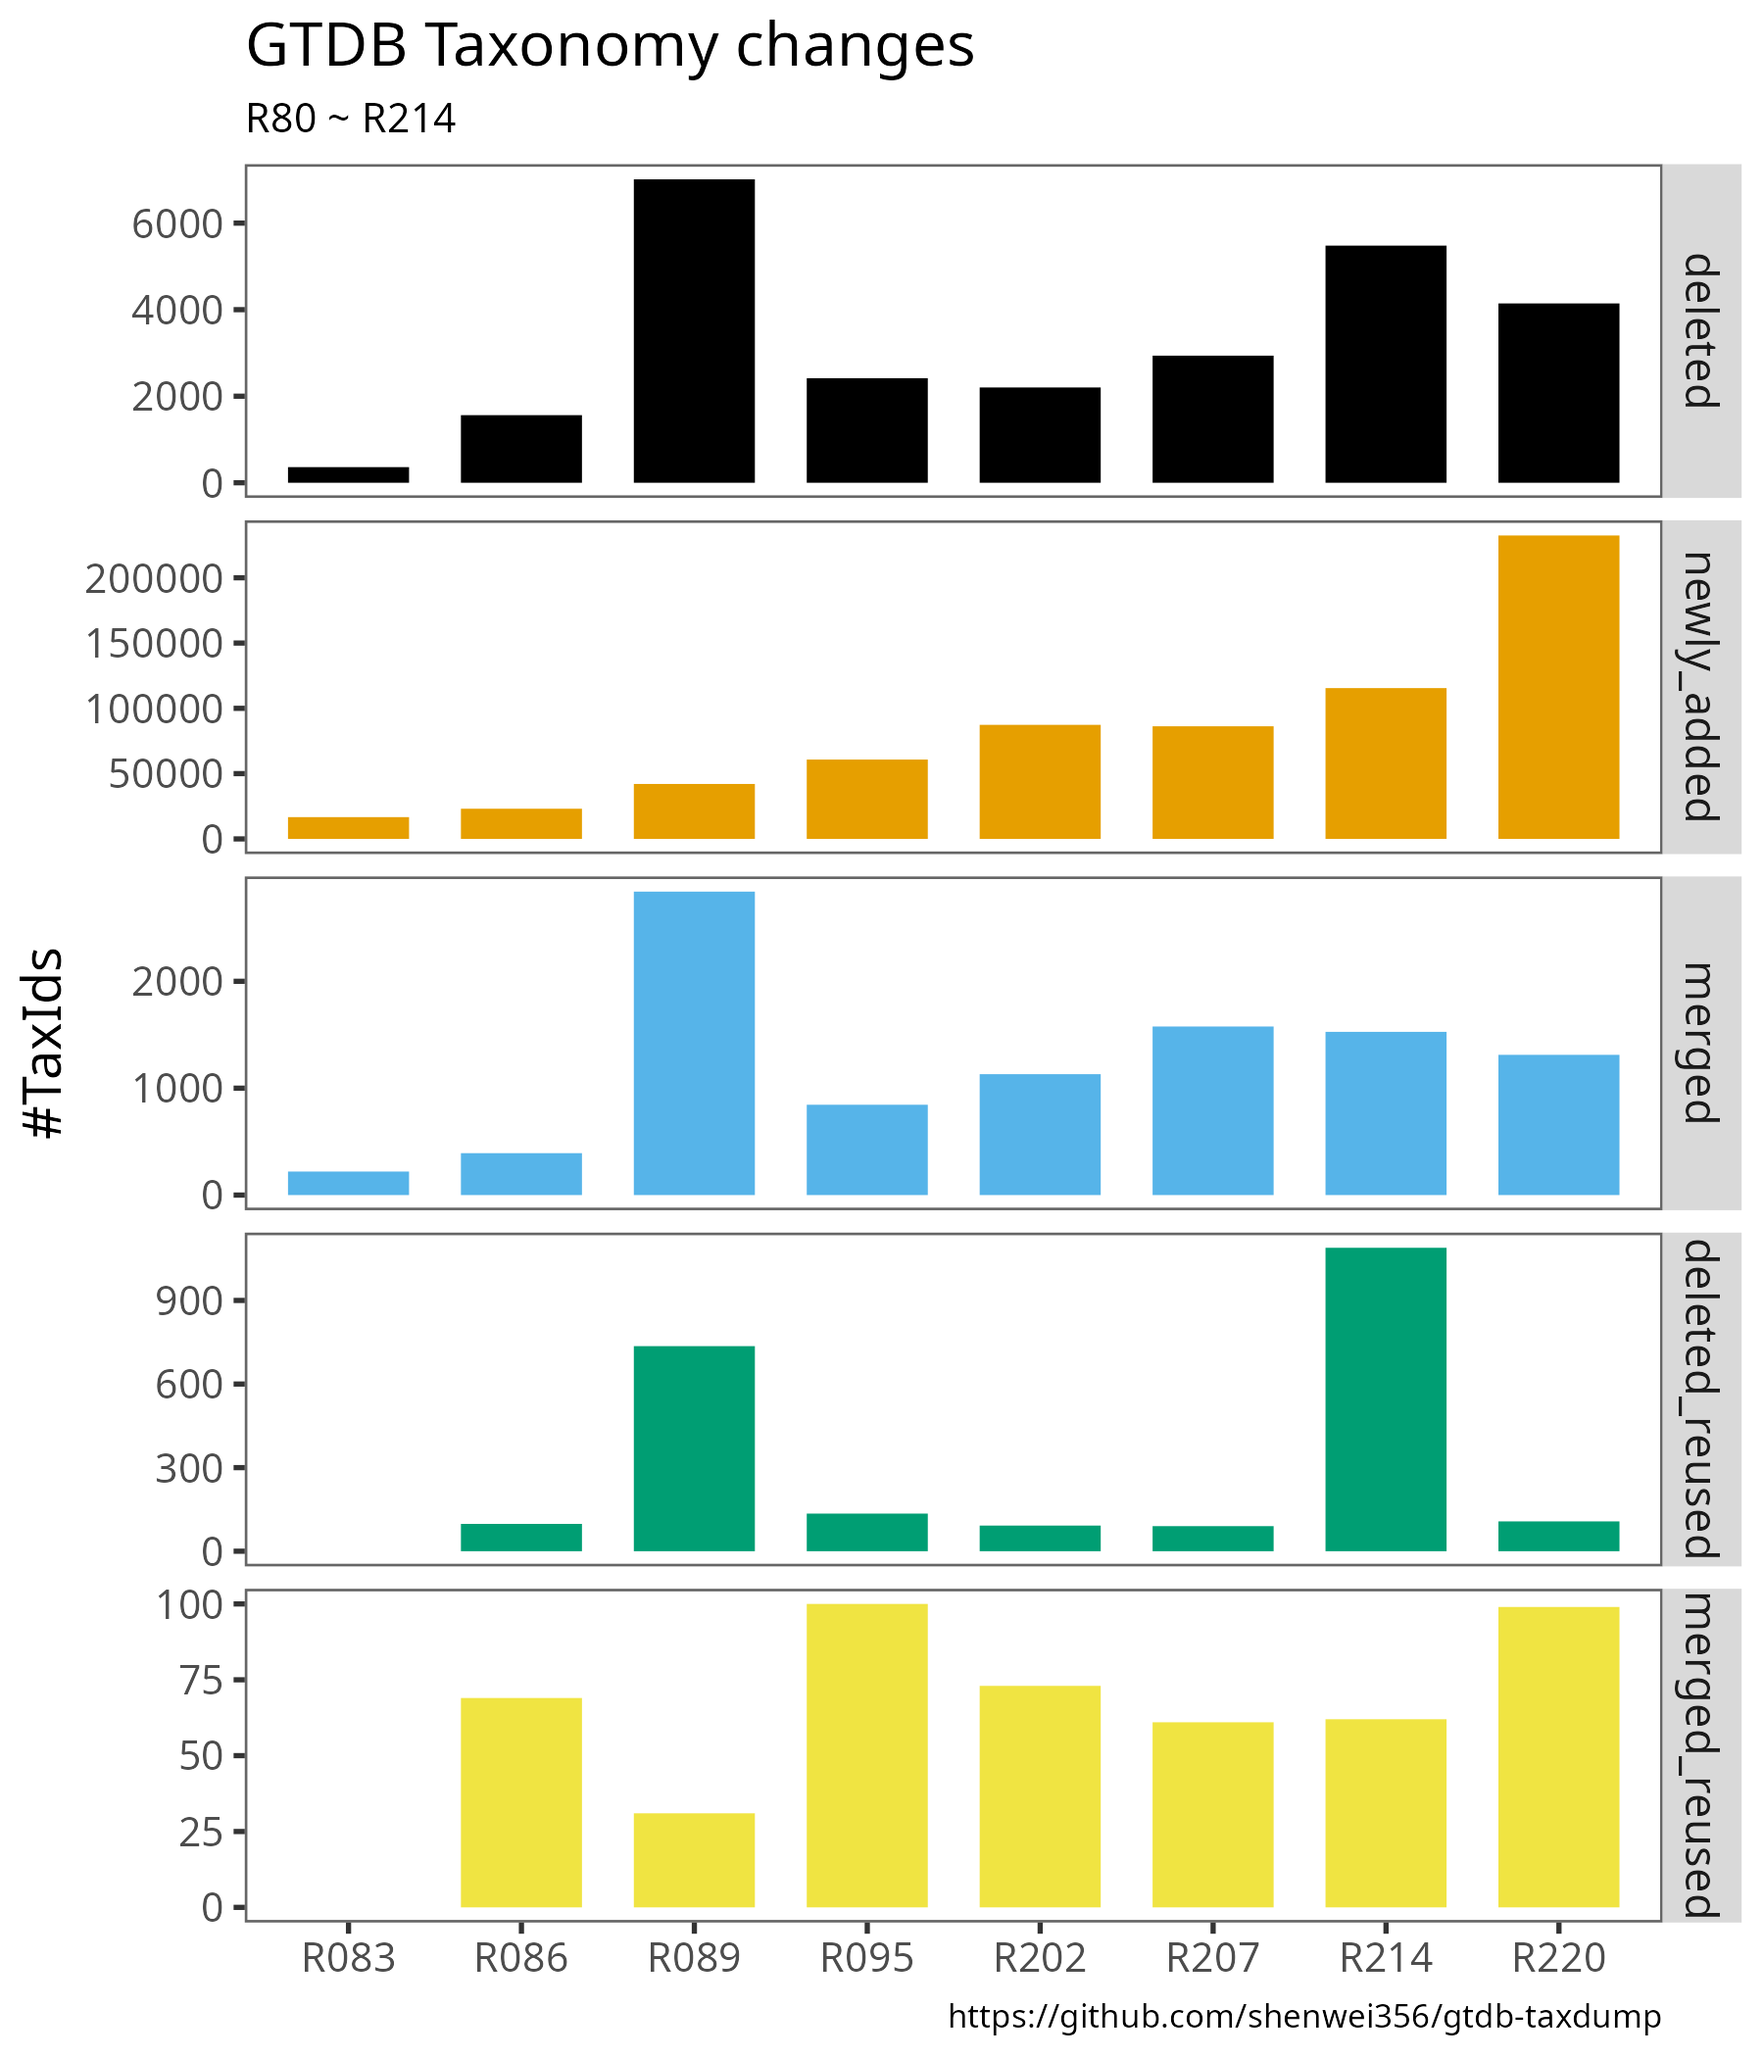
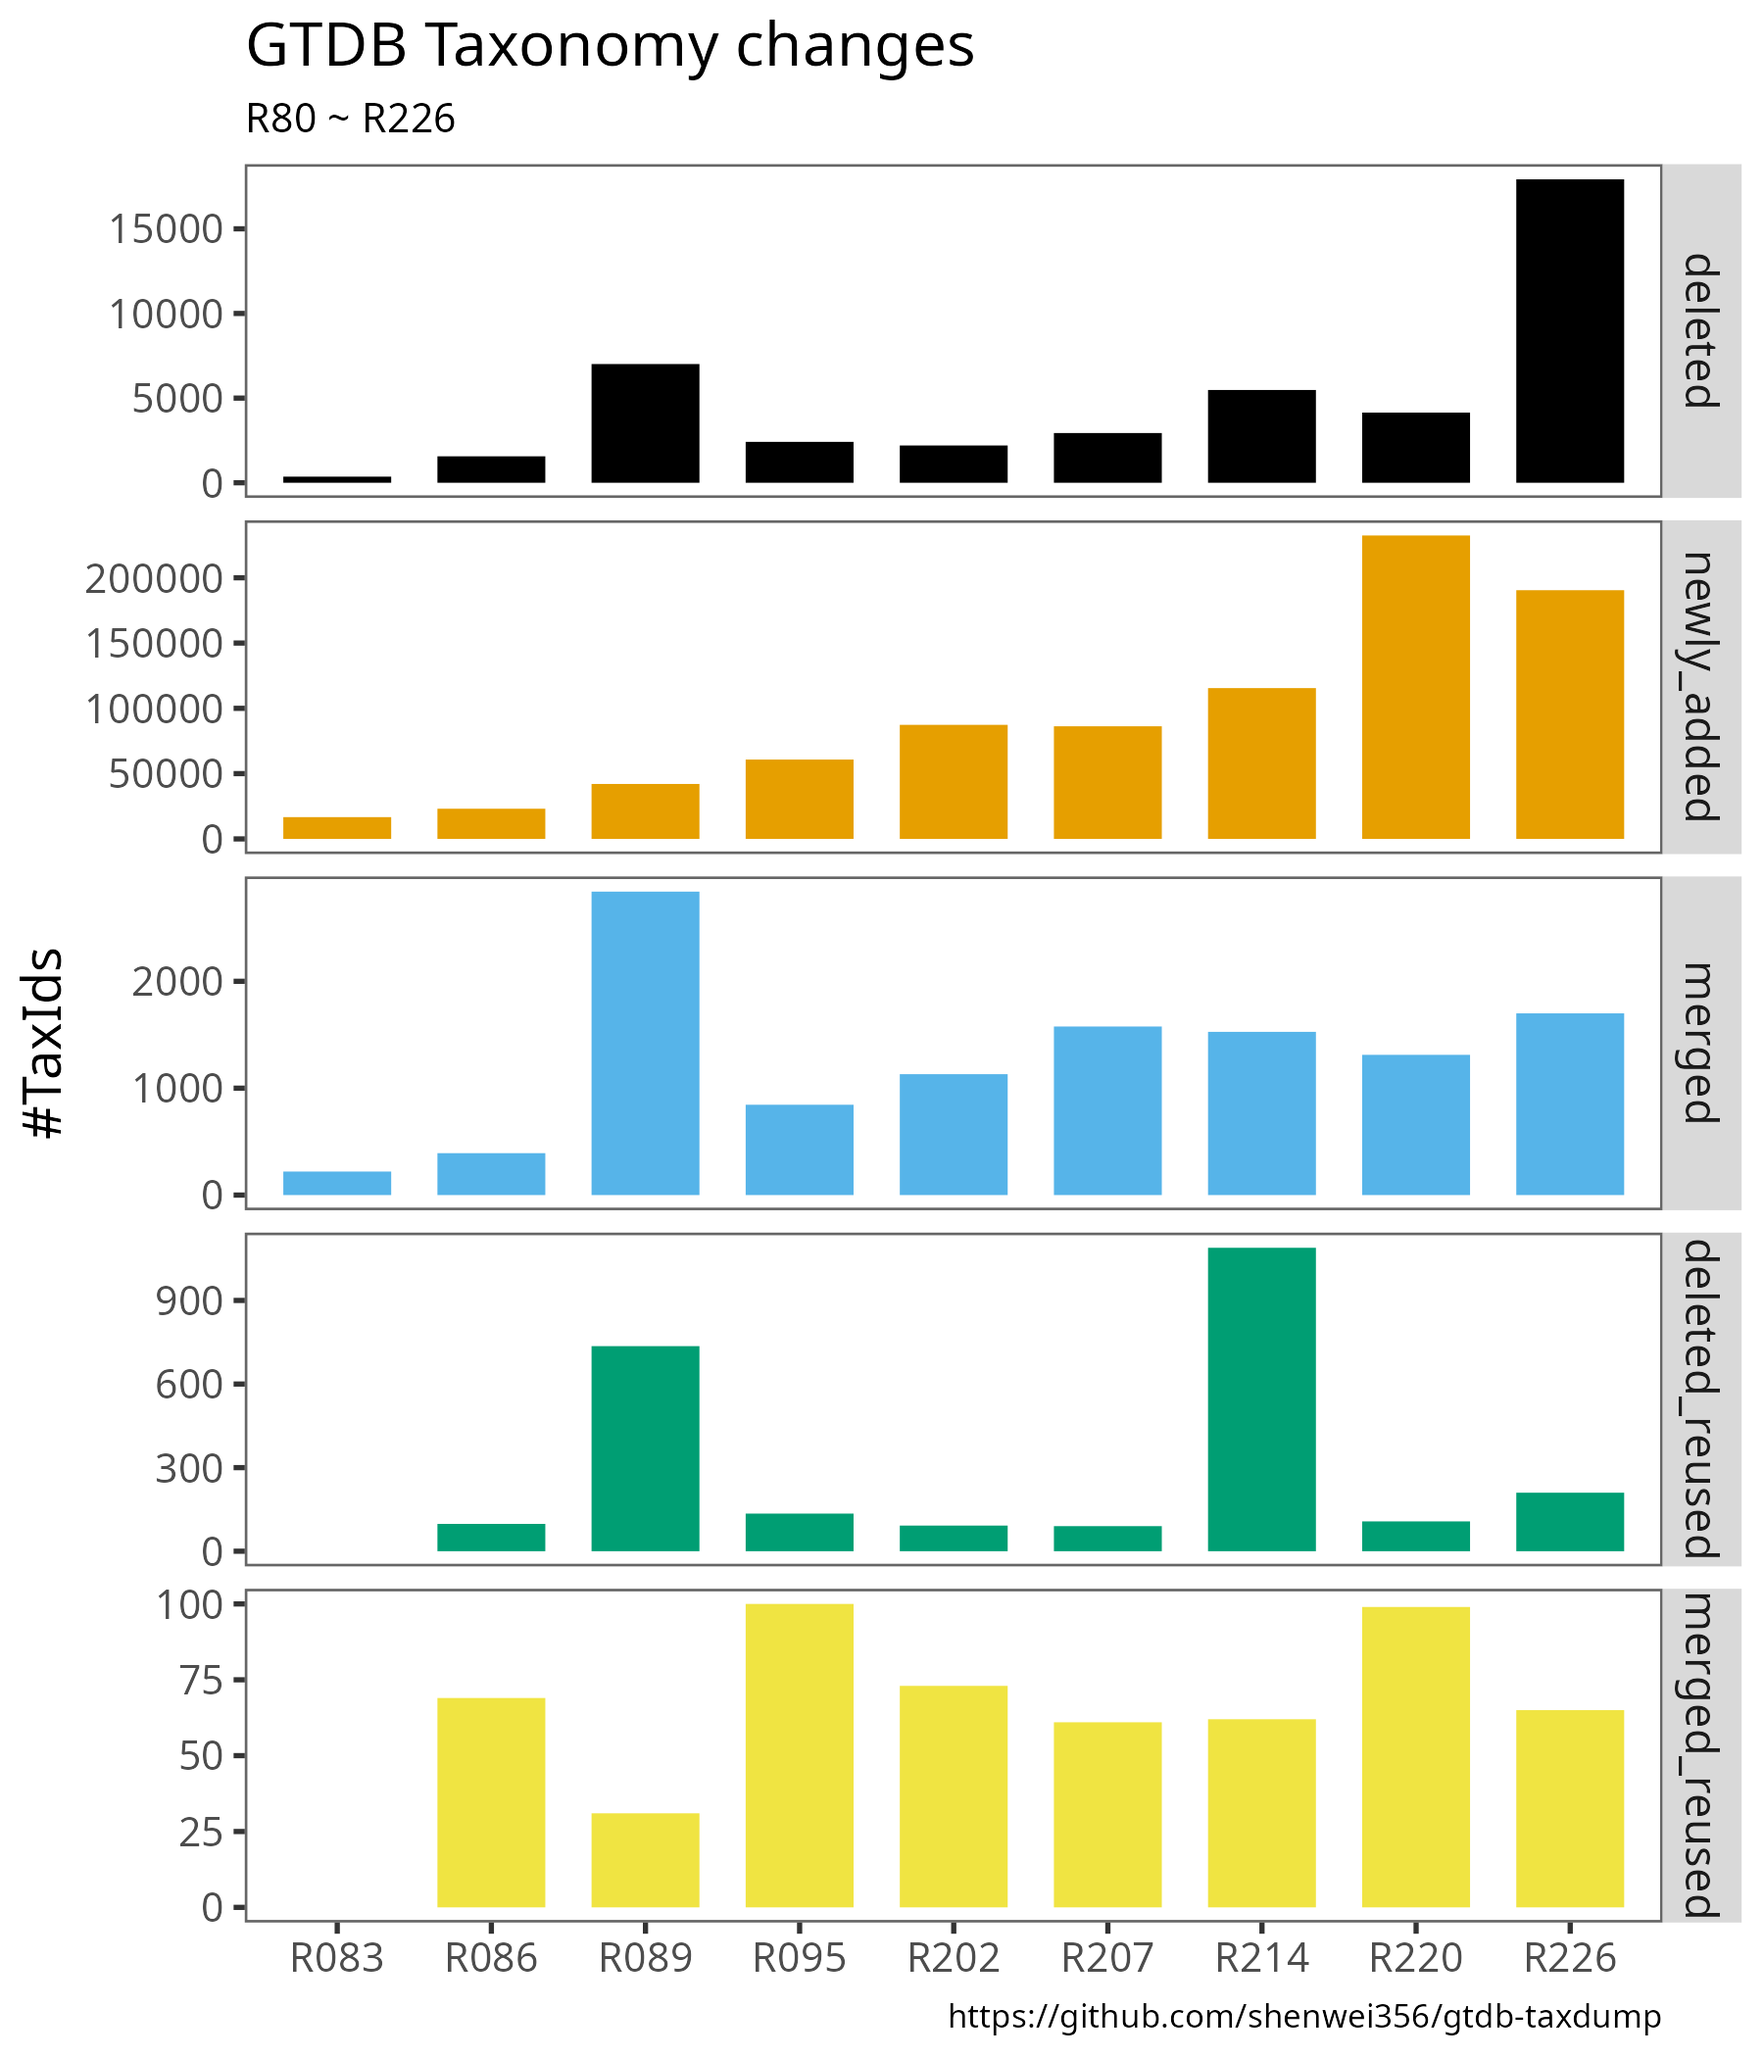
r226

diff --git a/README.md b/README.md
@@ -88,10 +88,12 @@ GTDB taxnomy files are download from https://data.gtdb.ecogenomic.org/releases/,
     ├── R214
     │   ├── ar53_taxonomy_r214.tsv.gz
     │   └── bac120_taxonomy_r214.tsv.gz
-    └── R220
-        ├── ar53_taxonomy_r220.tsv.gz
-        └── bac120_taxonomy_r220.tsv.gz
-
+    ├── R220
+    │   ├── ar53_taxonomy_r220.tsv.gz
+    │   └── bac120_taxonomy_r220.tsv.gz
+    └── R226
+        ├── ar53_taxonomy_r226.tsv.gz
+        └── bac120_taxonomy_r226.tsv.gz
 
 [TaxonKit](https://github.com/shenwei356/taxonkit) v0.12.0 or a later version is needed.
 [v0.16.0](https://github.com/shenwei356/taxonkit/blob/master/CHANGELOG.md) or a later version is preferred.
@@ -136,6 +138,9 @@ TaxIds in `int32` following BLAST and DIAMOND, rather than `uint32` in previous 
         taxonkit create-taxdump --gtdb -x gtdb-taxdump/R214/ \
             taxonomy/R220/*.tsv*  --out-dir gtdb-taxdump/R220  --force
             
+        taxonkit create-taxdump --gtdb -x gtdb-taxdump/R220/ \
+            taxonomy/R226/*.tsv*  --out-dir gtdb-taxdump/R226  --force
+            
 3. Generating TaxId changelog (Note that, it's not perfect for GTDB taxonomy).
 
 > We only check and eliminate taxid collision within a single version of taxonomy data.
@@ -160,11 +165,11 @@ Learn more about the [taxid-changelog](https://github.com/shenwei356/taxid-chang
 
 set the environment variable for simplicity
 
-    export TAXONKIT_DB=gtdb-taxdump/R220/
+    export TAXONKIT_DB=gtdb-taxdump/R226/
 
 Query the TaxId via an assembly accession
 
-    grep GCA_905234495.1 gtdb-taxdump/R220/taxid.map
+    grep GCA_905234495.1 gtdb-taxdump/R226/taxid.map
     GCA_905234495.1 254122285
 
 Query the TaxId via taxon name
@@ -194,17 +199,17 @@ Complete lineage (GTDB style)
 All lineages
 
     taxonkit list --ids 1 -I "" \
-        | taxonkit filter -E species \
+        | taxonkit filter -E species -N \
         | taxonkit reformat -I 1 -P --prefix-k d__ \
         > gtdb_species.txt
 
 Checking consistency
 
-    $ zcat taxonomy/R220/* | cut -f 2 | sort | uniq | md5sum
-    f9e0f5268ab65026894703db3eab7b4b  -
+    $ zcat taxonomy/R226/* | cut -f 2 | sort | uniq | md5sum
+    6fab08a4eb95ea64e3aa327c0a2c797b  -
 
     $ cut -f 2 gtdb_species.txt | sort | md5sum
-    f9e0f5268ab65026894703db3eab7b4b  -
+    6fab08a4eb95ea64e3aa327c0a2c797b  -
 
 
 
@@ -223,48 +228,48 @@ For other taxonomic data created by "taxonkit create-taxdump", e.g., GTDB-taxdum
 ### Species changes
 
 
-How many species are there in R220?
+How many species are there in R226?
 
-    $ taxonkit list --data-dir gtdb-taxdump/R220/ --ids 1 -I "" \
-        | taxonkit filter --data-dir gtdb-taxdump/R220/ -E species \
+    $ taxonkit list --data-dir gtdb-taxdump/R226/ --ids 1 -I "" \
+        | taxonkit filter --data-dir gtdb-taxdump/R226/ -E species -N \
         | wc -l
-    113104
+    143614
 
-How many species are added in R220?
+How many species are added in R226?
 
     $ pigz -cd gtdb-taxid-changelog.csv.gz \
-        | csvtk grep -f version -p R220 \
+        | csvtk grep -f version -p R226 \
         | csvtk grep -f change -p NEW \
         | csvtk grep -f rank -p species \
         | csvtk nrow
-    31987
+    39184
 
-How many species are deleted in R220?
+How many species are deleted in R226?
 
     $ pigz -cd gtdb-taxid-changelog.csv.gz \
-        | csvtk grep -f version -p R220 \
+        | csvtk grep -f version -p R226 \
         | csvtk grep -f change -p DELETE \
         | csvtk grep -f rank -p species \
         | csvtk nrow
-    3127
+    7392
 
-How many species are merged into others in R220?
+How many species are merged into others in R226?
 
     $ pigz -cd gtdb-taxid-changelog.csv.gz \
-        | csvtk grep -f version -p R220 \
+        | csvtk grep -f version -p R226 \
         | csvtk grep -f change -p MERGE \
         | csvtk grep -f rank -p species \
         | csvtk nrow
-    1182
+    1565
 
 ### Summary
 
-Complete lineages (R220)
+Complete lineages (R226)
 
-    $ cat gtdb-taxdump/R220/taxid.map  \
+    $ cat gtdb-taxdump/R226/taxid.map  \
         | csvtk freq -Ht -f 2 -nr \
-        | taxonkit lineage -r -n -L --data-dir gtdb-taxdump/R220/ \
-        | taxonkit reformat -I 1 -f '{k}\t{p}\t{c}\t{o}\t{f}\t{g}\t{s}' --data-dir gtdb-taxdump/R220/ \
+        | taxonkit lineage -r -n -L --data-dir gtdb-taxdump/R226/ \
+        | taxonkit reformat -I 1 -f '{k}\t{p}\t{c}\t{o}\t{f}\t{g}\t{s}' --data-dir gtdb-taxdump/R226/ \
         | csvtk add-header -t -n 'taxid,count,name,rank,superkindom,phylum,class,order,family,genus,species' \
         > taxid.map.stats.tsv
         
@@ -275,28 +280,29 @@ Frequency of species
         
     $ head -n 21 taxid.map.stats.freq-species.tsv \
         | csvtk pretty -t
+        
     species                      frequency
     --------------------------   ---------
-    Escherichia coli             38926
-    Klebsiella pneumoniae        18499
-    Staphylococcus aureus        16021
-    Salmonella enterica          15089
-    Streptococcus pneumoniae     9133
-    Acinetobacter baumannii      8536
-    Pseudomonas aeruginosa       8390
-    Mycobacterium tuberculosis   7337
-    Enterococcus_B faecium       3202
-    Enterococcus faecalis        3044
-    Clostridioides difficile     2991
-    Campylobacter_D jejuni       2873
-    Listeria monocytogenes       2517
-    Neisseria meningitidis       2336
-    Vibrio parahaemolyticus      2264
-    Streptococcus pyogenes       2258
-    Mycobacterium abscessus      2029
-    Listeria monocytogenes_B     2025
-    Burkholderia mallei          1934
-    Streptococcus agalactiae     1893
+    Escherichia coli             44640    
+    Klebsiella pneumoniae        23011    
+    Staphylococcus aureus        17542    
+    Salmonella enterica          17159    
+    Pseudomonas aeruginosa       10492    
+    Acinetobacter baumannii      10048    
+    Streptococcus pneumoniae     9446     
+    Mycobacterium tuberculosis   7631     
+    Enterococcus faecalis        4055     
+    Enterococcus_B faecium       3907     
+    Clostridioides difficile     3541     
+    Campylobacter_D jejuni       3419     
+    Enterobacter hormaechei_C    3237     
+    Listeria monocytogenes       2824     
+    Vibrio parahaemolyticus      2643     
+    Streptococcus pyogenes       2437     
+    Neisseria meningitidis       2368     
+    Listeria monocytogenes_B     2184     
+    Vibrio cholerae              2064     
+    Mycobacterium abscessus      2048
     
 
 ### Taxon history of Escherichia coli
@@ -307,7 +313,7 @@ Frequency of species
 Get the TaxId:
 
     $ echo Escherichia coli \
-        | taxonkit name2taxid --data-dir gtdb-taxdump/R220/
+        | taxonkit name2taxid --data-dir gtdb-taxdump/R226/
     Escherichia coli        599451526
 
 Any changes in the past? Hmm, of cause, it appeared in R80. 
@@ -393,13 +399,13 @@ also shows the taxonomic information of current version (R207) and the taxon his
 ### Species of the genus Escherichia
     
     # set the direcotory of taxdump file
-    export TAXONKIT_DB=gtdb-taxdump/R220
+    export TAXONKIT_DB=gtdb-taxdump/R226
     
     $ echo Escherichia | taxonkit name2taxid 
     Escherichia     1028471294
 
     $ taxonkit list --ids 1028471294 -I "" \
-        | taxonkit filter  -E species \
+        | taxonkit filter  -E species -N \
         | taxonkit lineage -Lnr \
         | tee Escherichia.tsv
     300575795       Escherichia sp005843885 species
@@ -424,14 +430,14 @@ also shows the taxonomic information of current version (R207) and the taxon his
         
 |taxid     |name                   |rank   |#assembly|
 |:---------|:----------------------|:------|:--------|
-|599451526 |Escherichia coli       |species|38926    |
-|2087647928|Escherichia albertii   |species|239      |
-|1155214706|Escherichia fergusonii |species|161      |
-|1854306313|Escherichia marmotae   |species|141      |
-|1831350832|Escherichia coli_F     |species|97       |
-|1083756244|Escherichia ruysiae    |species|62       |
-|300575795 |Escherichia sp005843885|species|37       |
-|1705205476|Escherichia whittamii  |species|4        |
+|599451526 |Escherichia coli       |species|44640    |
+|2087647928|Escherichia albertii   |species|279      |
+|1155214706|Escherichia fergusonii |species|187      |
+|1854306313|Escherichia marmotae   |species|166      |
+|1831350832|Escherichia coli_F     |species|134      |
+|1083756244|Escherichia ruysiae    |species|73       |
+|300575795 |Escherichia sp005843885|species|41       |
+|1705205476|Escherichia whittamii  |species|7        |
 |1904681918|Escherichia coli_E     |species|2        |
 |1627494196|Escherichia sp002965065|species|2        |
 |1004016418|Escherichia sp004211955|species|2        |
@@ -444,29 +450,30 @@ and [GCF_023276905.1](https://gtdb.ecogenomic.org/genome?gid=GCF_023276905.1) (f
       231798968 [no rank] 011881725
       1417695290 [no rank] 023276905
 
-    $ grep 011881725 gtdb-taxdump/R220/taxid.map
+    $ grep 011881725 gtdb-taxdump/R226/taxid.map
     GCF_011881725.1 231798968
 
 ### Common manipulations
 
 Except the four taxdump files, we provide a `taxid.map` file which maps genome accessions to TaxIds.
 
-    $ wc -l gtdb-taxdump/R220/*
-        23767 gtdb-taxdump/R220/delnodes.dmp
-         1322 gtdb-taxdump/R220/merged.dmp
-       743239 gtdb-taxdump/R220/names.dmp
-       743239 gtdb-taxdump/R220/nodes.dmp
-          107 gtdb-taxdump/R220/ranks.txt
-       596859 gtdb-taxdump/R220/taxid.map
+    $ wc -l gtdb-taxdump/R226/*
+        41480 gtdb-taxdump/R226/delnodes.dmp
+         1709 gtdb-taxdump/R226/merged.dmp
+       914435 gtdb-taxdump/R226/names.dmp
+       914435 gtdb-taxdump/R226/nodes.dmp
+          108 gtdb-taxdump/R226/ranks.txt
+       732475 gtdb-taxdump/R226/taxid.map
+      2604642 total
 
 List all the genomes of a species, e.g., *Akkermansia muciniphila*,
 
     # Retreive the TaxId
-    $ echo Akkermansia muciniphila | taxonkit name2taxid --data-dir gtdb-taxdump/R220
+    $ echo Akkermansia muciniphila | taxonkit name2taxid --data-dir gtdb-taxdump/R226
     Akkermansia muciniphila 791276584
     
     # list subtree
-    $ taxonkit list --data-dir gtdb-taxdump/R220 -nr --ids  791276584 | head -n 5
+    $ taxonkit list --data-dir gtdb-taxdump/R226 -nr --ids  791276584 | head -n 5
     791276584 [species] Akkermansia muciniphila
       2229511 [no rank] 948901395
       3636769 [no rank] 948711495
@@ -474,7 +481,7 @@ List all the genomes of a species, e.g., *Akkermansia muciniphila*,
       7567111 [no rank] 949384685
     
     # mapping TaxIds to Genome accessions with taxid.map
-    $ taxonkit list --data-dir gtdb-taxdump/R220 -I "" --ids  791276584 \
+    $ taxonkit list --data-dir gtdb-taxdump/R226 -I "" --ids  791276584 \
         | csvtk join -Ht -f '1;2' - gtdb-taxdump/R220/taxid.map \
         | head -n 5
     2229511 GCA_948901395.1
